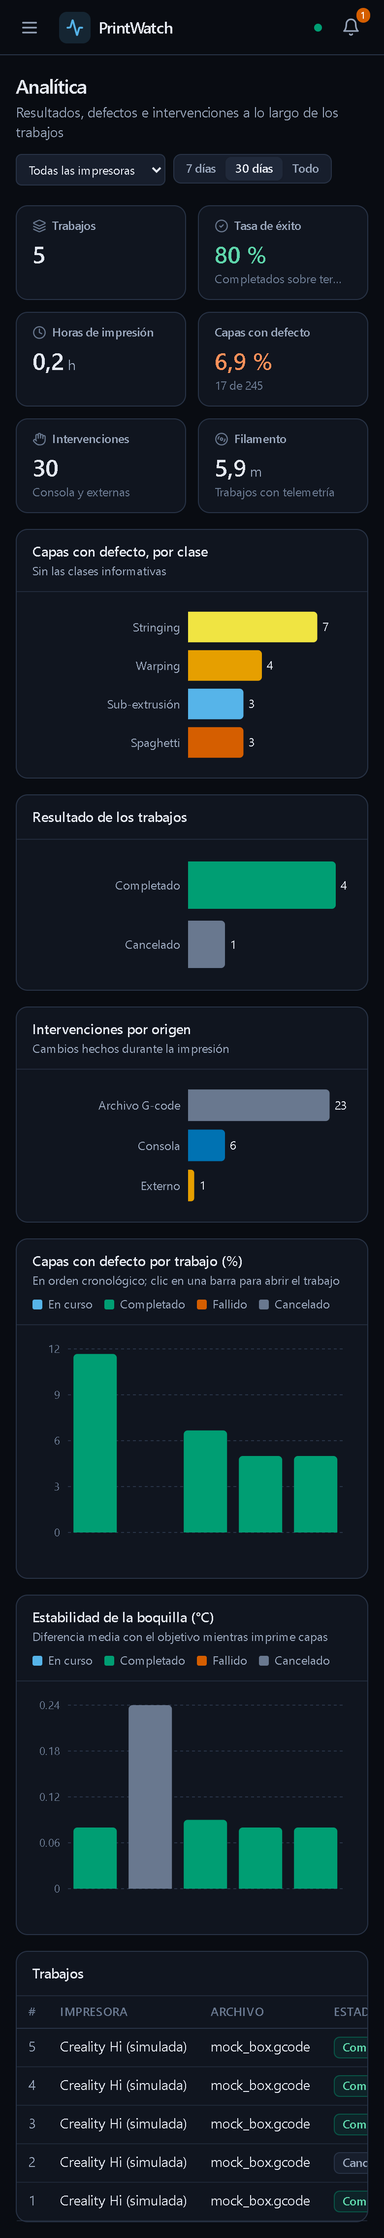
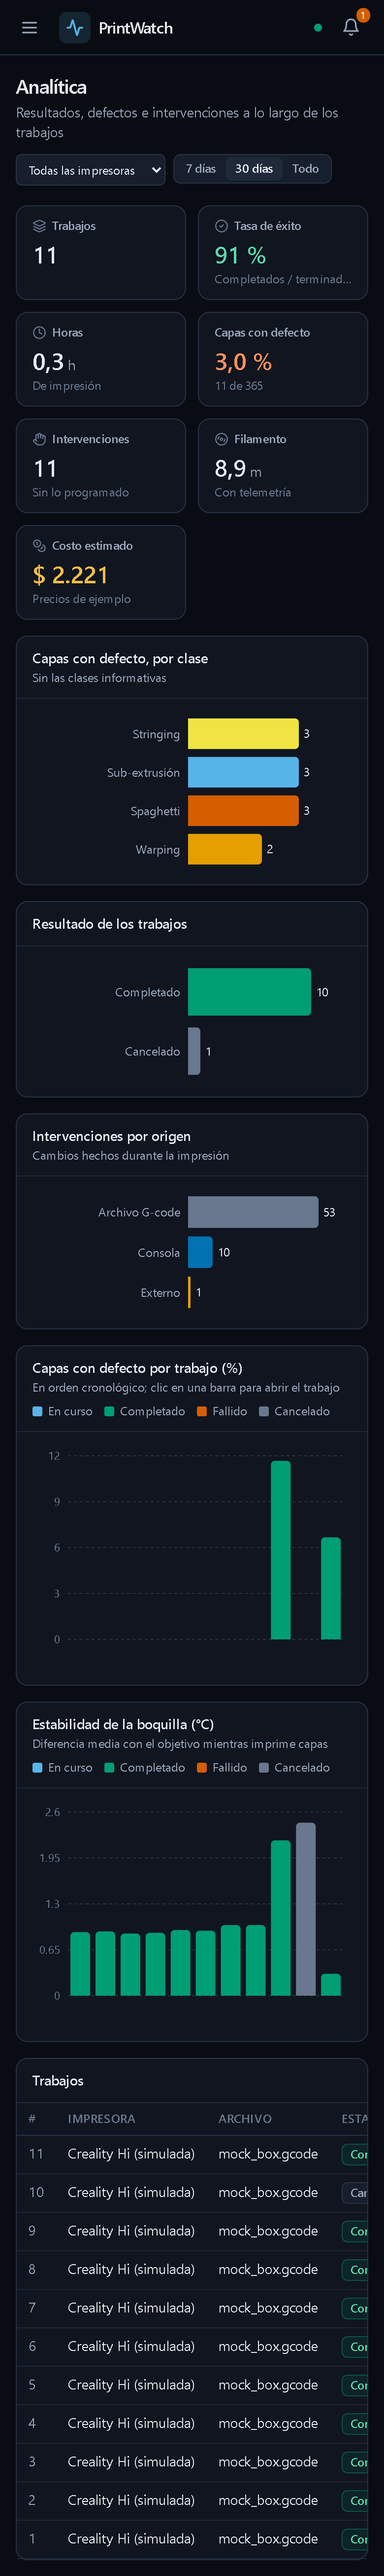
Fase 5: capturas, mediciones y documentacion; ajustes de la web
- Capturas de la Fase 5 en docs/capturas: repeticion con puntaje
  combinado y costo, salud de la impresora, analitica con costo y el
  reporte PDF de ejemplo (PDF y dos paginas en imagen).
- Salud: los limites de control siempre visibles en las graficas.
- Analitica: "Intervenciones" cuenta solo los cambios hechos por alguien
  (no los programados en el archivo), igual que el reporte; textos de
  los indicadores mas cortos.
- Demo: --health recomendado con 30 capas de 2 s, para que la boquilla
  tenga tiempo asentada y se vea su desgaste simulado.
- PROGRESO_TELEMETRIA (Fase 5 terminada, mediciones, pendientes con la
  impresora), KNOWN_LIMITATIONS seccion 9 (reporte y costo) y README.

diff --git a/frontend/src/pages/AnalyticsPage.tsx b/frontend/src/pages/AnalyticsPage.tsx
@@ -33,6 +33,11 @@ const ORIGIN_COLORS: Record<string, string> = {
   monitor: CHART_COLORS.axis,
 };
 
+/** Changes someone made (console, PrintWatch, unidentified), leaving out the ones the file programmed. */
+function byPeople(counts: Record<string, number>): number {
+  return Object.entries(counts).reduce((sum, [origin, count]) => (origin === "gcode_file" ? sum : sum + count), 0);
+}
+
 function SimpleTooltip({ active, payload, unit = "" }: { active?: boolean; payload?: { payload: { label: string; value: number } }[]; unit?: string }) {
   if (!active || !payload?.length) return null;
   const { label, value } = payload[0].payload;
@@ -179,17 +184,23 @@ export function AnalyticsPage() {
               value={formatPercent(data.totals.success_rate)}
               icon={<CheckCircle2 size={14} />}
               tone={data.totals.success_rate != null && data.totals.success_rate < 0.8 ? "warn" : "ok"}
-              hint="Completados sobre terminados"
+              hint="Completados / terminados"
             />
-            <Kpi label="Horas de impresión" value={formatNumber(data.totals.print_hours, 1)} unit="h" icon={<Clock size={14} />} />
+            <Kpi label="Horas" value={formatNumber(data.totals.print_hours, 1)} unit="h" icon={<Clock size={14} />} hint="De impresión" />
             <Kpi
               label="Capas con defecto"
               value={formatPercent(data.totals.defect_rate, 1)}
               hint={`${data.totals.layers_with_defect ?? 0} de ${data.totals.layers ?? 0}`}
               tone={data.totals.layers_with_defect ? "danger" : "ok"}
             />
-            <Kpi label="Intervenciones" value={data.totals.interventions ?? 0} icon={<Hand size={14} />} hint="Consola y externas" />
-            <Kpi label="Filamento" value={formatNumber(data.totals.filament_m, 1)} unit="m" icon={<Disc3 size={14} />} hint="Trabajos con telemetría" />
+            <Kpi
+              label="Intervenciones"
+              value={byPeople(data.interventions_by_origin)}
+              icon={<Hand size={14} />}
+              hint="Sin lo programado"
+              title="Cambios hechos por alguien (consola, PrintWatch o sin identificar); no cuenta los programados en el archivo G-code."
+            />
+            <Kpi label="Filamento" value={formatNumber(data.totals.filament_m, 1)} unit="m" icon={<Disc3 size={14} />} hint="Con telemetría" />
             <Kpi
               label="Costo estimado"
               value={formatMoney(data.totals.cost, data.currency ?? "COP")}
@@ -271,7 +282,7 @@ export function AnalyticsPage() {
                       <Td className="tabular">
                         {job.layers_with_defect}/{job.layers}
                       </Td>
-                      <Td className="tabular">{Object.values(job.interventions).reduce((sum, count) => sum + count, 0)}</Td>
+                      <Td className="tabular">{byPeople(job.interventions)}</Td>
                       <Td className="tabular">{job.nozzle_error_mean_c == null ? "—" : `${formatNumber(job.nozzle_error_mean_c, 1)} °C`}</Td>
                       <Td className="tabular">{job.filament_m == null ? "—" : `${formatNumber(job.filament_m, 1)} m`}</Td>
                       <Td className="whitespace-nowrap tabular">{formatMoney(job.cost, data.currency ?? "COP")}</Td>

diff --git a/frontend/src/pages/HealthPage.tsx b/frontend/src/pages/HealthPage.tsx
@@ -101,9 +101,10 @@ function MetricPanel({ metric }: { metric: HealthMetric }) {
               <Tooltip content={<ChartTooltip metric={metric} />} cursor={{ stroke: CHART_COLORS.axis, strokeWidth: 1 }} />
               {baseline && (
                 <>
+                  {/* extendDomain: the control limits stay in view even when every point is well inside them. */}
                   <ReferenceLine y={scale(metric, baseline.mean)} stroke={CHART_COLORS.axis} strokeDasharray="4 3" />
-                  <ReferenceLine y={scale(metric, baseline.upper)} stroke={CHART_COLORS.orange} strokeDasharray="2 3" strokeOpacity={0.8} />
-                  <ReferenceLine y={scale(metric, baseline.lower)} stroke={CHART_COLORS.orange} strokeDasharray="2 3" strokeOpacity={0.8} />
+                  <ReferenceLine y={scale(metric, baseline.upper)} stroke={CHART_COLORS.orange} strokeDasharray="2 3" strokeOpacity={0.8} ifOverflow="extendDomain" />
+                  <ReferenceLine y={scale(metric, baseline.lower)} stroke={CHART_COLORS.orange} strokeDasharray="2 3" strokeOpacity={0.8} ifOverflow="extendDomain" />
                 </>
               )}
               <Line type="linear" dataKey="y" stroke={CHART_COLORS.sky} strokeWidth={1.5} dot={<FlaggedDot />} isAnimationActive={false} />

diff --git a/backend/scripts/demo_environment.py b/backend/scripts/demo_environment.py
@@ -401,7 +401,7 @@ async def main() -> None:
     parser.add_argument("--live", action="store_true", help="en vez del escenario completo, una sola impresión en curso")
     parser.add_argument(
         "--health", action="store_true",
-        help="en vez del escenario, 8 impresiones cortas con desgaste simulado al final (usar con --layers 20 --layer-seconds 2)",
+        help="en vez del escenario, 8 impresiones cortas con desgaste simulado al final (usar con --layers 30 --layer-seconds 2)",
     )
     args = parser.parse_args()
 

diff --git a/README.md b/README.md
@@ -4,6 +4,8 @@ Sistema de monitoreo en tiempo real de impresoras 3D (FDM) que fotografía cada 
 
 Además registra la telemetría de la impresora una vez por segundo (temperaturas, velocidad, flujo, ventiladores, posición), lleva una bitácora de cada cambio durante la impresión con quién lo hizo según la evidencia disponible (PrintWatch, la consola, el archivo G-code, la propia impresora o alguien sin identificar) protegida con una cadena de hashes, y ubica los defectos sobre la cama en milímetros a partir de una calibración de la cámara. Con la impresora solo se habla en modo lectura, salvo la pausa automática.
 
+Sobre esos datos calcula, siempre marcado como estimación y con la explicación de cómo: un puntaje que combina la confianza del modelo con la telemetría de la capa (por ejemplo, sub-extrusión con el flujo bajado), la salud de los calentadores comparando cada trabajo con el pasado de la impresora (cartas de control), el costo de cada impresión (filamento y energía de los calentadores) y un reporte PDF por trabajo.
+
 **Autores:** Samuel Rodriguez y Adrian Stiven Meneses Ávila
 
 **Defectos que detecta (6 clases):** `spaghetti`, `warping`, `stringing`, `layer_shift`, `under_extrusion`, `blob_over_extrusion`.
@@ -32,10 +34,10 @@ Impresora (Moonraker / OctoPrint)
 
 | Recurso | Ubicación | Descripción | Propósito | Estado |
 |---|---|---|---|---|
-| Backend / API | [`backend/`](backend/) | FastAPI + SQLAlchemy async + Alembic. Autenticación JWT, impresoras, cámaras, trabajos de impresión, capas, detecciones, alertas, WebSocket, listeners de Moonraker y OctoPrint, pausa automática. Telemetría por segundo, bitácora de eventos con atribución y cadena de hashes, mapa de la cama (calibración de cámara por homografía) y analítica. | Núcleo del sistema: expone la API REST/WebSocket y coordina el resto de servicios. | Detección y pausa verificadas con hardware real (Creality Hi); telemetría, bitácora y mapa de la cama probados con la impresora simulada, pendientes de una impresión real |
+| Backend / API | [`backend/`](backend/) | FastAPI + SQLAlchemy async + Alembic. Autenticación JWT, impresoras, cámaras, trabajos de impresión, capas, detecciones, alertas, WebSocket, listeners de Moonraker y OctoPrint, pausa automática. Telemetría por segundo, bitácora de eventos con atribución y cadena de hashes, mapa de la cama (calibración de cámara por homografía), analítica, puntaje combinado modelo + telemetría, salud de la impresora, costo estimado y reporte PDF. | Núcleo del sistema: expone la API REST/WebSocket y coordina el resto de servicios. | Detección y pausa verificadas con hardware real (Creality Hi); telemetría, bitácora y mapa de la cama probados con la impresora simulada, pendientes de una impresión real |
 | Captura de imágenes | [`capture/`](capture/) | Servicio que fotografía cada capa desde la cámara (USB, RTSP, MJPEG o sintética) y publica la tarea de inferencia. Incluye la heurística de color y el stream en vivo. | Obtener las imágenes de cada capa durante la impresión. | Funcional |
 | Inferencia | [`inference/`](inference/) | Worker que ejecuta el modelo ONNX sobre las capturas y guarda detecciones (clases, confianza, cajas) en Postgres. | Detección de defectos en producción. | Funcional — modelo `yolo11s-trained-v1-fp32` |
-| Frontend | [`frontend/`](frontend/) | React 18 + TypeScript + Vite + Tailwind + Recharts. Panel general, impresión en vivo (video, telemetría, mapa de la cama, capas), historial con repetición de cada trabajo, bitácora con verificación de integridad, analítica, calibración de la cámara y centro de alertas. Se adapta al celular. | Interfaz del operador. | Rediseñado; probado con la impresora simulada |
+| Frontend | [`frontend/`](frontend/) | React 18 + TypeScript + Vite + Tailwind + Recharts. Panel general, impresión en vivo (video, telemetría, mapa de la cama, capas), historial con repetición de cada trabajo (con costo estimado y reporte PDF), bitácora con verificación de integridad, analítica, calibración de la cámara, salud de la impresora y centro de alertas. Se adapta al celular. | Interfaz del operador. | Rediseñado; probado con la impresora simulada |
 | Infraestructura | [`infra/`](infra/) | `docker-compose.yml` (Postgres 16, Redis 7, backend, inference-worker) y `docker-compose.dev.yml` (recarga en caliente). | Despliegue reproducible. | Funcional |
 | Scripts de apoyo | [`backend/scripts/`](backend/scripts/) | `create_user.py`, `mark_layers.py` (disparo manual de capas, plan B), `mock_octoprint.py` y `mock_moonraker.py` (impresoras simuladas; la segunda imita la Creality Hi con cámara simulada), `moonraker_discovery.py` (inventario de solo lectura de lo que expone la impresora), `demo_environment.py` (modo demostración). | Administración, demo y pruebas sin hardware. | Funcional |
 
@@ -126,9 +128,9 @@ Para ver el sistema completo sin la impresora ni la cámara, [`backend/scripts/d
 - un backend de demostración en `http://localhost:8010`, con su propia base de Redis y canales con prefijo `demo:` para no mezclarse con el sistema real;
 - un reemplazo de la captura y del modelo: guarda una foto por capa de la cámara simulada y genera detecciones **sintéticas** (quedan marcadas con `"synthetic": true`) en las capas y lugares que dice el guion. El modelo real no se ejecuta en este modo.
 
-El guion dura unos 8 minutos con los valores por defecto (60 capas de 3 s):
+El guion dura unos 12 minutos con los valores por defecto (60 capas de 3 s, más el calentamiento de cada impresión):
 
-1. Una impresión con intervenciones: velocidad cambiada desde la consola, temperatura de la cama desde la pantalla, ajuste de Z y un objeto excluido; con *stringing*, *warping* y sub-extrusión en tres capas seguidas, que dispara la alerta de atasco. Termina bien.
+1. Una impresión con intervenciones: velocidad cambiada desde la consola, ajuste de Z y un objeto excluido; además, antes de cada defecto, un cambio que lo explica (boquilla subida antes del *stringing*, cama bajada desde la pantalla antes del *warping*, flujo bajado antes de la sub-extrusión, que en tres capas seguidas dispara la alerta de atasco), para ver el puntaje combinado en acción. Termina bien.
 2. Una impresión cancelada desde la consola.
 3. *Spaghetti* en tres capas seguidas: la pausa automática pausa la impresora **simulada**; a los seis segundos se reanuda desde la consola y la impresión termina.
 
@@ -141,11 +143,11 @@ cd frontend
 $env:VITE_API_BASE_URL = "http://localhost:8010"; npm run dev -- --port 5181
 ```
 
-Se entra en `http://localhost:5181` con el usuario `demo` y la contraseña `demo-printwatch`, que solo existen en la base de demostración. Opciones: `--reset` borra la base de demostración y empieza de cero; `--live` hace una sola impresión con algunos defectos (para ver la pantalla en vivo sin esperar el guion); `--no-scenario` solo levanta los servicios; `--layers` y `--layer-seconds` cambian la duración. `Ctrl+C` lo detiene todo.
+Se entra en `http://localhost:5181` con el usuario `demo` y la contraseña `demo-printwatch`, que solo existen en la base de demostración. Opciones: `--reset` borra la base de demostración y empieza de cero; `--live` hace una sola impresión con algunos defectos (para ver la pantalla en vivo sin esperar el guion); `--health` hace 8 impresiones cortas en las que, en las dos últimas, la boquilla necesita más potencia y la cama calienta más lento (desgaste simulado, para la pestaña "Salud"; usar con `--reset --layers 30 --layer-seconds 2`, unos 12 minutos); `--no-scenario` solo levanta los servicios; `--layers` y `--layer-seconds` cambian la duración. `Ctrl+C` lo detiene todo.
 
 ## Capturas de pantalla
 
-Tomadas con el modo demostración (impresora simulada, detecciones sintéticas), en escritorio (1440 px) y en celular (390 px). Están en [`docs/capturas/`](docs/capturas/).
+Tomadas con el modo demostración (impresora simulada, detecciones sintéticas), en escritorio (1440 px) y en celular (390 px). Están en [`docs/capturas/`](docs/capturas/). Las de la Fase 4 son del primer recorrido de la demostración; las de la Fase 5 (puntaje, costo, salud y reporte), de uno posterior, por eso los números no coinciden entre unas y otras.
 
 | Pantalla | Escritorio | Celular |
 |---|---|---|
@@ -158,6 +160,9 @@ Tomadas con el modo demostración (impresora simulada, detecciones sintéticas),
 | Analítica | [escritorio_analitica.png](docs/capturas/escritorio_analitica.png) | [celular_analitica.png](docs/capturas/celular_analitica.png) |
 | Alertas | [escritorio_alertas.png](docs/capturas/escritorio_alertas.png) | [celular_alertas.png](docs/capturas/celular_alertas.png) |
 | Avisos de pausa automática (los tres estados a la vez, con mensajes simulados enviados solo a la página) | [escritorio_avisos_pausa.png](docs/capturas/escritorio_avisos_pausa.png) | [celular_avisos_pausa.png](docs/capturas/celular_avisos_pausa.png) |
+| Repetición en la capa 26: puntaje combinado (modelo 58 %, combinado 71 % por el flujo bajado), costo estimado y las notas "cómo se calcula" abiertas | [escritorio_repeticion_puntaje_y_costo.png](docs/capturas/escritorio_repeticion_puntaje_y_costo.png) | [celular_repeticion_puntaje_y_costo.png](docs/capturas/celular_repeticion_puntaje_y_costo.png) |
+| Salud de la impresora (desgaste simulado en las dos últimas impresiones) | [escritorio_salud.png](docs/capturas/escritorio_salud.png) | [celular_salud.png](docs/capturas/celular_salud.png) |
+| Reporte PDF de un trabajo | [reporte_pdf_pagina_1.png](docs/capturas/reporte_pdf_pagina_1.png), [reporte_pdf_pagina_2.png](docs/capturas/reporte_pdf_pagina_2.png) y el PDF: [reporte_trabajo_demo.pdf](docs/capturas/reporte_trabajo_demo.pdf) | — |
 
 ![Impresión en vivo en el modo demostración](docs/capturas/escritorio_en_vivo.png)
 

diff --git a/docs/PROGRESO_TELEMETRIA.md b/docs/PROGRESO_TELEMETRIA.md
@@ -22,7 +22,7 @@ Lo que necesita la impresora real queda preparado para correrlo después y anota
 | 2. Bitácora de intervenciones | Terminada y desplegada (pantalla en la Fase 4); falta verla con una impresión real |
 | 3. Mapa de la cama | Terminada y desplegada (pantalla en la Fase 4); falta calibrar la cámara real |
 | 4. Rediseño de la web | Terminada; probada con la impresora simulada (modo demostración) |
-| 5. Innovación | En curso: puntaje combinado y salud hechos; faltan el reporte PDF y el costo |
+| 5. Innovación | Terminada y desplegada; probada con la impresora simulada |
 
 ## Fase 0: descubrimiento
 
@@ -291,7 +291,59 @@ calibración real) y desde el celular en la red del laboratorio.
 - Los resultados de salud de los trabajos terminados quedan en memoria del backend; los del
   puntaje se calculan en cada consulta (13-33 ms por trabajo en la demo).
 
-**Pendiente:** 3. reporte PDF por trabajo; 4. estimación de costo (filamento y energía).
+3. **Reporte PDF por trabajo** (`app/services/report.py`, `GET /print-jobs/{id}/report.pdf`, botón
+   "Reporte (PDF)" en la página del trabajo). Resumen (inicio, fin, duración real contra la
+   estimada por el laminador, capas, clases, alertas, intervenciones por origen, pausas automáticas,
+   filamento usado contra el estimado, energía y costo), gráficas de temperaturas y de velocidad,
+   flujo y ventilador con las capas con defecto, las intervenciones y las pausas marcadas, mapa de
+   defectos en la cama, tabla de defectos con su puntaje combinado y las señales a favor, bitácora
+   del trabajo, estado de la cadena de hashes con el hash del último evento y cómo se calcula cada
+   estimación. Si las detecciones son de la demostración, lo dice.
+4. **Costo estimado** (`app/services/costs.py`, `GET /print-jobs/{id}/cost`, tarjeta en la página
+   del trabajo, columna y total en la analítica). Filamento usado por precio por kg, más la energía
+   de los dos calentadores (PWM por potencia nominal, integrado segundo a segundo) por precio por
+   kWh. Precios, potencias, diámetro y densidad por defecto se guardan en la tabla nueva
+   `app_settings` y los cambia un administrador desde la web (`GET/PUT /settings/costs`).
+- Migración `e7b3c2a91f04` (a mano, solo agrega `app_settings`): probada en `printwatch_test`
+  (subir, `alembic check`, bajar, subir) y aplicada a la base real el 2026-10-08 después de
+  respaldarla en `storage/respaldo_antes_costos_2026-10-08.sql`. Backend desplegado reconstruido
+  (con `fpdf2`).
+- El listener guarda en la geometría del trabajo los metadatos del laminador que publica la
+  impresora (tiempo y filamento estimados, material, laminador); los usan el reporte y el costo.
+- Pruebas: 119.
+
+**Mediciones (demo):** reporte de un trabajo de 60 capas: 16 KB, ~0,25 s; puntaje combinado:
+13-33 ms por trabajo; costo: una consulta por trabajo. Salud: 36-57 ms la primera consulta con 8-11
+trabajos cortos y 17 ms después (los trabajos terminados quedan en memoria); el cálculo de un trabajo
+de 2 h (7.200 muestras) toma ~23 ms de CPU, así que con 100 trabajos largos la primera consulta
+después de reiniciar el backend tomaría unos segundos (estimado, sin medir con datos reales). La
+página en vivo pide el puntaje combinado una vez por capa analizada.
+- En la demostración, `--health` detectó el desgaste simulado: potencia para mantener la boquilla
+  0,28 → 0,34 → 0,38 y calentamiento de la cama 2,85 → 1,9 °C/s, ambos en "Atención". También
+  marcó un falso aviso en una impresión normal (calentamiento 2,79 contra 2,85 ± 0,02 °C/s): con la
+  simulada, que casi no tiene ruido, la línea base queda muy estrecha. Con datos reales la
+  variación natural será mayor.
+- De paso: el indicador "Intervenciones" de la analítica contaba también los cambios programados en
+  el archivo; ahora cuenta solo los hechos por alguien (consola, PrintWatch o sin identificar), como
+  el reporte.
+
+**Decisiones (3 y 4):**
+- El reporte se genera al pedirlo, con los datos de ese momento, en vez de guardarse al terminar:
+  siempre refleja lo último (alertas reconocidas, recalibraciones) y no ocupa disco. Quien quiera
+  conservarlo lo descarga; por eso lleva el hash del último evento.
+- `fpdf2` (Python puro) dibujando las gráficas y el mapa con primitivas vectoriales: sin
+  matplotlib ni librerías de sistema en el contenedor, y el PDF pesa ~15 KB.
+- Potencias por defecto de la Creality Hi: boquilla 50 W (repuesto del hotend de la Hi); cama
+  1000 W a 220 V según la ficha, que a 120 V (red de Colombia) rinde ~300 W porque la potencia de
+  una resistencia va con el cuadrado del voltaje; coincide con los 390 W nominales de la impresora a
+  110 V. Los precios por defecto son de ejemplo y la web lo avisa hasta que alguien los cambie.
+- Los gramos usan los gramos por milímetro del laminador cuando el archivo los trae (ya incluyen su
+  densidad y diámetro); si no, una densidad típica por material.
+
+**Pendiente con la impresora (Fase 5):** ver qué metadatos publica la Hi en
+`cur_print_data.metadata` (`estimated_time`, `filament_total`, `filament_weight_total`,
+`filament_type`), si tiene sensor de filamento expuesto a Klipper, y con varias impresiones reales
+revisar la pestaña "Salud" (hacen falta al menos 6 trabajos parecidos).
 
 ## Pendiente con la impresora
 
@@ -317,3 +369,8 @@ Antes de cualquier prueba: VPN HotspotShield desconectada, sesión `wsl -- sleep
 5. Fase 4: durante esa impresión, recorrer las pantallas en el computador y en el celular (misma red):
    video en vivo, lecturas que cambian cada segundo, marcas de la bitácora en las gráficas, tira de
    capas con fotos y, al terminar, la repetición y la analítica del trabajo.
+6. Fase 5: al terminar esa impresión, descargar el reporte PDF y revisar que traiga el tiempo
+   estimado por el laminador (si sale "el archivo no trae la estimación", la Hi no publica
+   `estimated_time` en `cur_print_data.metadata`); configurar los precios reales (filamento y kWh) en
+   "Precios y potencias"; mirar el puntaje combinado de las detecciones que haya, y después de unas 6
+   impresiones parecidas, la pestaña "Salud".

diff --git a/docs/KNOWN_LIMITATIONS.md b/docs/KNOWN_LIMITATIONS.md
@@ -165,9 +165,9 @@ Cómo funciona (`app/services/bed_map.py`): el usuario marca las cuatro esquinas
 - **Detecciones anteriores:** las cajas de las primeras 16 detecciones (formato viejo, en píxeles) no se pueden ubicar y se cuentan aparte. Las detecciones previas a este cambio no guardaban el ROI; se asume el cuadro completo, que es lo que se usó siempre (nunca se configuró un ROI).
 - **Antigüedad de la foto para calibrar:** `capture` ahora guarda la hora de cada cuadro y el backend la informa (`X-Frame-Age-Seconds`); hay que reiniciar `capture` para que empiece a hacerlo. Sin eso, la foto puede ser la última que quedó en Redis de una sesión anterior.
 
-## 9. Análisis derivados: puntaje combinado y salud de la impresora
+## 9. Análisis derivados: puntaje combinado, salud, reporte y costo
 
-**Estado:** implementados y probados con datos sintéticos y con la impresora simulada; ninguno se ha contrastado con impresiones reales de la Creality Hi (todavía no hay trabajos con telemetría real). En la web llevan la marca "Estimación" con la explicación de cómo se calculan.
+**Estado:** implementados y probados con datos sintéticos y con la impresora simulada; ninguno se ha contrastado con impresiones reales de la Creality Hi (todavía no hay trabajos con telemetría real). En la web y en el reporte llevan la marca "Estimación" con la explicación de cómo se calculan.
 
 **Puntaje combinado (modelo + telemetría, `app/services/fusion.py`).** Solo se muestra: las alertas y la pausa automática siguen usando únicamente el modelo.
 
@@ -186,3 +186,18 @@ Cómo funciona (`app/services/bed_map.py`): el usuario marca las cuatro esquinas
 - **Las reglas de la carta de control** (±3σ, 2 de 3 más allá de 2σ, 8 seguidos del mismo lado) suponen mediciones independientes y con ruido parecido al normal; con pocos trabajos la desviación de la línea base es poco precisa. Cuando la línea base casi no varía, se usa como mínimo la resolución del dato para no convertir diferencias ínfimas en anomalías.
 - **La velocidad de calentamiento solo se mide en arranques en frío** (cuando la impresión empieza por debajo del 20 % del camino entre 25 °C y el objetivo). Si se precalienta antes de lanzar la impresión, ese trabajo no aporta el dato.
 - **Costo:** la primera consulta después de reiniciar el backend lee las muestras de cada trabajo (hasta 100 trabajos); los resultados de los trabajos terminados quedan en memoria. Medido en la simulada: ver `docs/PROGRESO_TELEMETRIA.md`.
+
+**Reporte PDF por trabajo (`app/services/report.py`).**
+
+- **Se genera al pedirlo, con los datos de ese momento.** No se archiva solo al terminar el trabajo: si después se reconoce una alerta o se recalibra la cámara, un reporte nuevo lo refleja. Para conservar una versión, hay que descargarla.
+- **El hash impreso solo protege si el PDF se guarda fuera de la base.** Sirve para comprobar después que la cadena de eventos sigue conteniendo ese hash (que nadie borró los últimos eventos ni la reescribió entera).
+- **Gráficas reducidas** a 600 puntos (promedios por tramos) y bitácora limitada a 150 eventos por reporte; el resto está en la web.
+- **Texto en Latin-1** (fuentes básicas de PDF, sin incrustar tipografías): el español sale completo, pero símbolos como σ o → se escriben con letras.
+- **Tiempo estimado:** sale de los metadatos del laminador que publica la impresora (`virtual_sdcard.cur_print_data.metadata` en la Creality). Solo existe para los trabajos posteriores a este cambio y no está verificado que la Hi publique `estimated_time`; si no, el reporte lo dice.
+
+**Costo estimado (`app/services/costs.py`).**
+
+- **Filamento:** es lo que la impresora mandó extruir (`print_stats.filament_used`), no un pesaje. Incluye purgas y líneas de limpieza que estén en el archivo; no incluye lo que se pierde fuera de él. Los gramos salen de los gramos por milímetro del laminador si el archivo los trae; si no, de una densidad típica por material (PLA 1,24; PETG 1,27; ABS 1,04; ASA 1,07; TPU 1,21 g/cm³) y el diámetro configurado.
+- **Energía: solo los calentadores**, como PWM × potencia nominal. No cuenta motores, ventiladores, electrónica, pantalla ni cámara (decenas de vatios), ni el consumo en espera. La potencia de la cama depende del voltaje: 1000 W a 220 V según la ficha, ~300 W a 120 V (supuesto de la configuración por defecto) y ~250 W a 110 V. Los huecos de más de 5 s en la telemetría no se cuentan.
+- **Precios únicos** para toda la instalación (no por material ni por impresora), configurables en la web por un administrador. Hasta que alguien los configure, son valores de ejemplo y la web lo avisa.
+- **En la analítica** el costo de cada trabajo se calcula con una muestra = 1 s (la frecuencia del muestreo); en la página del trabajo se usa el tiempo real entre muestras. La diferencia es mínima, pero las cifras pueden no coincidir al último peso.
